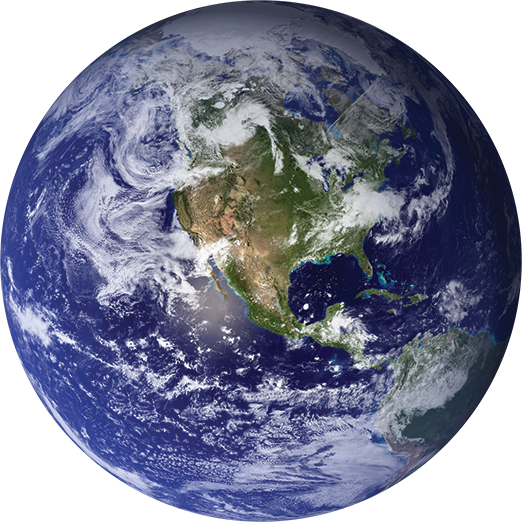
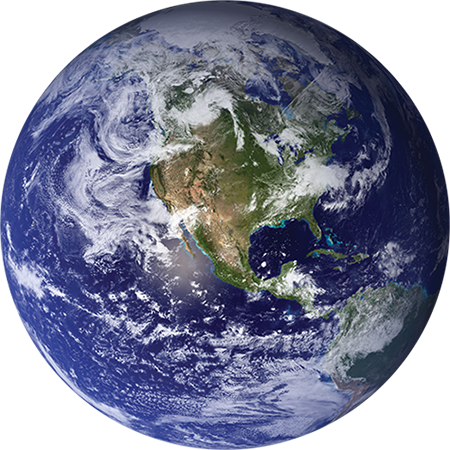
Tweaking header layout.

diff --git a/css/site.css b/css/site.css
@@ -126,7 +126,7 @@ a {
 /* line 8, ../sass/partials/_layout.scss */
 #header .container {
   background: transparent url(../images/bluemarble-western.png) no-repeat top right;
-  background-position-y: 5px;
+  background-position-y: 25px;
   min-height: 140px;
 }
 /* line 13, ../sass/partials/_layout.scss */
@@ -343,9 +343,9 @@ a {
 }
 
 /* line 4, ../sass/partials/_objects.scss */
-.box .hd, .box-impact .hd, .box-highlight .hd, .box-sidebar .hd,
-.sidebar .block .hd, .box .bd, .box-impact .bd, .box-highlight .bd, .box-sidebar .bd,
-.sidebar .block .bd, .box .ft, .box-impact .ft, .box-highlight .ft, .box-sidebar .ft,
+.box .hd, .box-impact .hd, .box-highlight .hd, .box-summary .hd, .box-sidebar .hd,
+.sidebar .block .hd, .box .bd, .box-impact .bd, .box-highlight .bd, .box-summary .bd, .box-sidebar .bd,
+.sidebar .block .bd, .box .ft, .box-impact .ft, .box-highlight .ft, .box-summary .ft, .box-sidebar .ft,
 .sidebar .block .ft {
   padding: 1em;
 }
@@ -357,7 +357,7 @@ a {
 }
 
 /* line 18, ../sass/partials/_objects.scss */
-.box-highlight {
+.box-highlight, .box-summary {
   background: #f2f1eb;
   /* For browsers that don't support gradients */
   background: -webkit-gradient(linear, 50% 0%, 50% 100%, color-stop(0%, #f2f1eb), color-stop(100%, #fbfbf9));
@@ -368,55 +368,60 @@ a {
   border: 1px solid #f2f1eb !important;
 }
 /* line 22, ../sass/partials/_objects.scss */
-.box-highlight .hd {
+.box-highlight .hd, .box-summary .hd {
   padding: 0;
 }
 /* line 31, ../sass/partials/_objects.scss */
-.box-highlight blockquote {
+.box-highlight blockquote, .box-summary blockquote {
   display: none;
 }
 
-/* line 37, ../sass/partials/_objects.scss */
+/* line 36, ../sass/partials/_objects.scss */
+.box-summary {
+  padding: 2% 5%;
+}
+
+/* line 42, ../sass/partials/_objects.scss */
 .box-sidebar,
 .sidebar .block {
   border: 1px solid #f2f1eb;
   padding: 1em;
 }
-/* line 41, ../sass/partials/_objects.scss */
+/* line 46, ../sass/partials/_objects.scss */
 .box-sidebar .dropdown-menu,
 .sidebar .block .dropdown-menu {
   background-color: transparent;
 }
-/* line 44, ../sass/partials/_objects.scss */
+/* line 49, ../sass/partials/_objects.scss */
 .box-sidebar .menu a,
 .sidebar .block .menu a {
   padding: 5px;
 }
 
-/* line 50, ../sass/partials/_objects.scss */
+/* line 55, ../sass/partials/_objects.scss */
 .gallery .field-item {
   margin: 0 1em 1em 0;
   background-color: #f2f1eb;
   display: inline-block;
 }
-/* line 54, ../sass/partials/_objects.scss */
+/* line 59, ../sass/partials/_objects.scss */
 .gallery .field-item blockquote {
   margin: 0;
   padding: 5px;
   text-align: center;
 }
 
-/* line 64, ../sass/partials/_objects.scss */
+/* line 69, ../sass/partials/_objects.scss */
 .article .figure {
   max-width: 480px;
 }
 
-/* line 70, ../sass/partials/_objects.scss */
+/* line 75, ../sass/partials/_objects.scss */
 .social li {
   margin: 0 !important;
   padding: 0;
 }
-/* line 76, ../sass/partials/_objects.scss */
+/* line 81, ../sass/partials/_objects.scss */
 .social .content a {
   display: block;
   float: left;
@@ -427,48 +432,48 @@ a {
   opacity: .75;
   text-indent: -9999px;
 }
-/* line 86, ../sass/partials/_objects.scss */
+/* line 91, ../sass/partials/_objects.scss */
 .social .content a:hover {
   opacity: 1;
 }
-/* line 91, ../sass/partials/_objects.scss */
+/* line 96, ../sass/partials/_objects.scss */
 .social a[href*="youtube.com"] {
   background-position: 0 0;
 }
-/* line 95, ../sass/partials/_objects.scss */
+/* line 100, ../sass/partials/_objects.scss */
 .social a[href*="vimeo.com"] {
   background-position: -46px 0;
 }
-/* line 99, ../sass/partials/_objects.scss */
+/* line 104, ../sass/partials/_objects.scss */
 .social a[href*="twitter.com"] {
   background-position: -91px 0;
 }
-/* line 103, ../sass/partials/_objects.scss */
+/* line 108, ../sass/partials/_objects.scss */
 .social a[href*="tumblr.com"] {
   background-position: 0 -46px;
 }
-/* line 107, ../sass/partials/_objects.scss */
+/* line 112, ../sass/partials/_objects.scss */
 .social a[href*="pinterest.com"] {
   background-position: -46px -46px;
 }
-/* line 111, ../sass/partials/_objects.scss */
+/* line 116, ../sass/partials/_objects.scss */
 .social a[href*="linkedin.com"] {
   background-position: -91px -46px;
 }
-/* line 115, ../sass/partials/_objects.scss */
+/* line 120, ../sass/partials/_objects.scss */
 .social a[href*="google.com"] {
   background-position: 0 -91px;
 }
-/* line 119, ../sass/partials/_objects.scss */
+/* line 124, ../sass/partials/_objects.scss */
 .social a[href*="flickr.com"] {
   background-position: -46px -91px;
 }
-/* line 123, ../sass/partials/_objects.scss */
+/* line 128, ../sass/partials/_objects.scss */
 .social a[href*="facebook.com"] {
   background-position: -91px -91px;
 }
 
-/* line 128, ../sass/partials/_objects.scss */
+/* line 133, ../sass/partials/_objects.scss */
 .table td {
   border-width: 0 0 1px 0;
 }

diff --git a/sass/partials/_layout.scss b/sass/partials/_layout.scss
@@ -7,7 +7,7 @@
   margin: 0;
   .container {
     background: transparent url(../images/bluemarble-western.png) no-repeat top right;
-    background-position-y: 5px;
+    background-position-y: 25px;
     min-height: 140px;
   }
   #logo {

diff --git a/sass/partials/_objects.scss b/sass/partials/_objects.scss
@@ -33,6 +33,11 @@
   }
 }
 
+.box-summary {
+  @extend .box-highlight;
+  padding: 2% 5%;
+}
+
 .box-sidebar,
 .sidebar .block {
   @extend .box;
